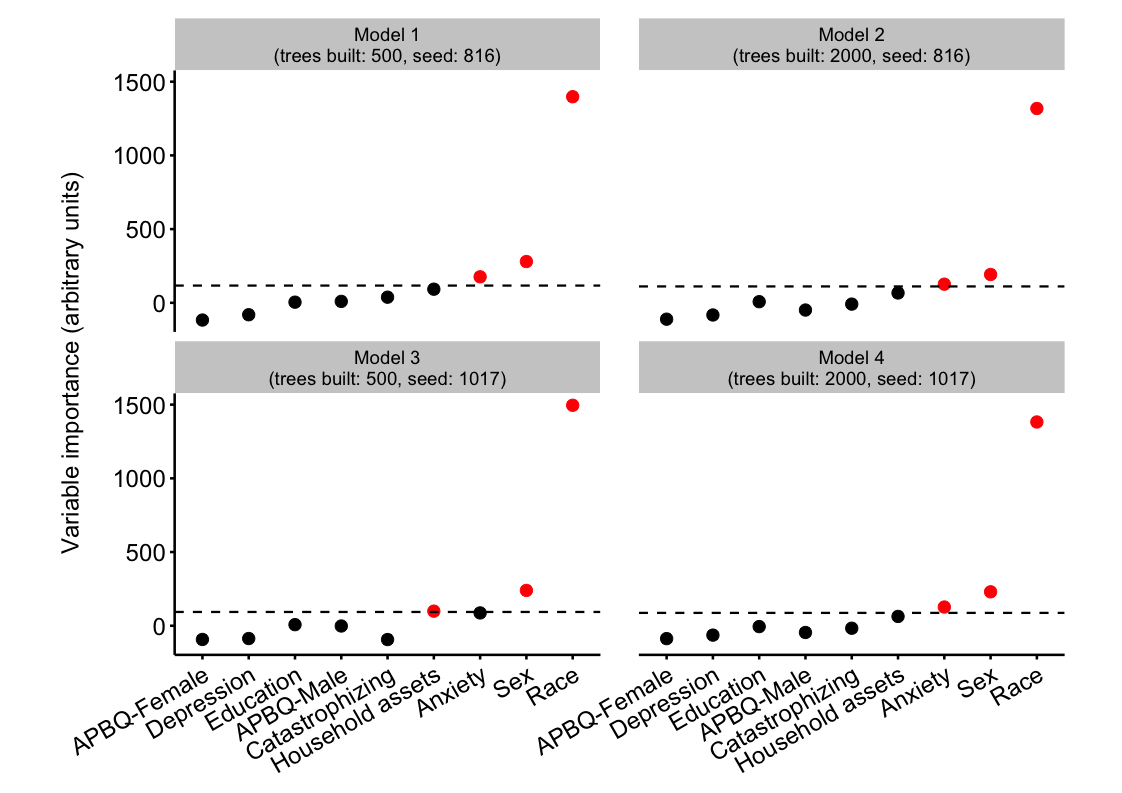
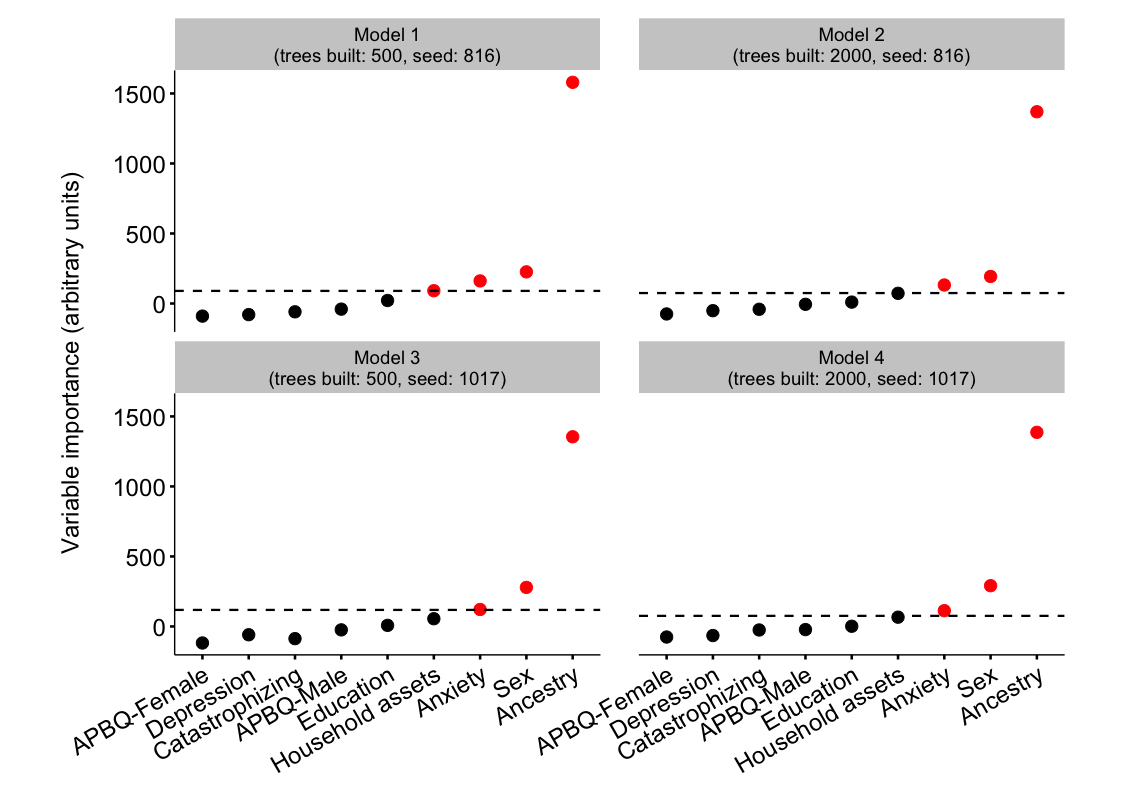
Knitr output after updating column/fig labels

diff --git a/cold-pain-tolerance.md b/cold-pain-tolerance.md
@@ -5,7 +5,7 @@ Random forest analysis: Cold-pain tolerance
 
 **First version: January 28, 2016**
 
-**Latest version: January 29, 2016**
+**Latest version: June 25, 2016**
 
 ------------------------------------------------------------------------
 
@@ -18,12 +18,26 @@ library(ggplot2)
 library(scales)
 library(grid)
 library(cowplot)
+```
+
+    ## Warning: package 'cowplot' was built under R version 3.2.5
+
+``` r
 library(readr)
 library(dplyr)
 library(tidyr)
 library(knitr)
-library(party)
+```
 
+    ## Warning: package 'knitr' was built under R version 3.2.5
+
+``` r
+library(party)
+```
+
+    ## Warning: package 'zoo' was built under R version 3.2.5
+
+``` r
 # Palette
 palette = c('#000000', '#FF0000')
 
@@ -44,7 +58,7 @@ Load data
 ---------
 
 ``` r
-data <- read_csv("./data/cart-25-01-2016.csv")
+data <- read_csv("./data/random-forest.csv")
 ```
 
 Quick look
@@ -60,9 +74,9 @@ dim(data)
 names(data)
 ```
 
-    ##  [1] "ID"         "CPT"        "PPT"        "Race"       "Sex"       
-    ##  [6] "Anxiety"    "Depression" "PCS"        "APBQ-F"     "APBQ-M"    
-    ## [11] "Education"  "Assets"
+    ##  [1] "ID"         "CPT"        "PPT"        "ancestry"   "sex"       
+    ##  [6] "anxiety"    "depression" "PCS"        "APBQ-F"     "APBQ-M"    
+    ## [11] "education"  "assets"
 
 ``` r
 head(data)
@@ -70,15 +84,15 @@ head(data)
 
     ## Source: local data frame [6 x 12]
     ## 
-    ##      ID   CPT   PPT  Race   Sex Anxiety Depression   PCS APBQ-F APBQ-M
-    ##   (int) (int) (int) (chr) (chr)   (dbl)      (dbl) (int)  (dbl)  (dbl)
-    ## 1     1   217   874     W     M     1.5       1.00    11     NA    1.8
-    ## 2     2   300  1154     W     M     2.4       1.53    15     NA    3.0
-    ## 3     4    39   741     B     F     2.3       1.60    21    3.6    3.7
-    ## 4     5    53  1100     B     F     2.3       1.40    23    0.9    1.5
-    ## 5     6   300  1100     B     M     1.3       1.27    13    3.7   -3.1
-    ## 6     7   300  1249     W     M     1.4       1.13     3    5.7    3.4
-    ## Variables not shown: Education (int), Assets (dbl)
+    ##      ID   CPT   PPT ancestry   sex anxiety depression   PCS APBQ-F APBQ-M
+    ##   (int) (int) (int)    (chr) (chr)   (dbl)      (dbl) (int)  (dbl)  (dbl)
+    ## 1     1   217   874      Eur     M     1.5       1.00    11     NA    1.8
+    ## 2     2   300  1154      Eur     M     2.4       1.53    15     NA    3.0
+    ## 3     4    39   741      Afr     F     2.3       1.60    21    3.6    3.7
+    ## 4     5    53  1100      Afr     F     2.3       1.40    23    0.9    1.5
+    ## 5     6   300  1100      Afr     M     1.3       1.27    13    3.7   -3.1
+    ## 6     7   300  1249      Eur     M     1.4       1.13     3    5.7    3.4
+    ## Variables not shown: education (int), assets (dbl)
 
 ``` r
 tail(data)
@@ -86,24 +100,25 @@ tail(data)
 
     ## Source: local data frame [6 x 12]
     ## 
-    ##      ID   CPT   PPT  Race   Sex Anxiety Depression   PCS APBQ-F APBQ-M
-    ##   (int) (int) (int) (chr) (chr)   (dbl)      (dbl) (int)  (dbl)  (dbl)
-    ## 1   254   111   664     W     F     1.6       1.80    12    3.5    3.7
-    ## 2   255    15   524     B     F     2.2       2.13    NA    3.1    4.3
-    ## 3   258   300  1126     B     M     1.2       1.20    NA    0.7   -2.0
-    ## 4   259    70  1117     B     F     1.7       2.00     7    5.7    4.5
-    ## 5   260    53   892     B     F     1.4         NA    37    4.1    4.9
-    ## 6   262    41   471     B     M     1.0       1.27    27    3.8   -3.9
-    ## Variables not shown: Education (int), Assets (dbl)
+    ##      ID   CPT   PPT ancestry   sex anxiety depression   PCS APBQ-F APBQ-M
+    ##   (int) (int) (int)    (chr) (chr)   (dbl)      (dbl) (int)  (dbl)  (dbl)
+    ## 1   254   111   664      Eur     F     1.6       1.80    12    3.5    3.7
+    ## 2   255    15   524      Afr     F     2.2       2.13    NA    3.1    4.3
+    ## 3   258   300  1126      Afr     M     1.2       1.20    NA    0.7   -2.0
+    ## 4   259    70  1117      Afr     F     1.7       2.00     7    5.7    4.5
+    ## 5   260    53   892      Afr     F     1.4         NA    37    4.1    4.9
+    ## 6   262    41   471      Afr     M     1.0       1.27    27    3.8   -3.9
+    ## Variables not shown: education (int), assets (dbl)
 
 Process data
 ------------
 
 ``` r
 # Clean data
-data <- data %>% mutate(Race = factor(Race), Sex = factor(Sex), APBQF = `APBQ-F`, 
-    APBQM = `APBQ-M`, Education = factor(Education, ordered = TRUE)) %>% 
-    select(-c(1, 3, 9:10))
+data <- data %>% mutate(Ancestry = factor(ancestry), Sex = factor(sex), 
+    Anxiety = anxiety, Depression = depression, APBQF = `APBQ-F`, 
+    APBQM = `APBQ-M`, Education = factor(education, ordered = TRUE), 
+    Assets = assets) %>% select(-c(1, 3, 4:7, 9:12))
 # Complete X and Y variable dataset
 data_complete <- data[complete.cases(data), ]
 # Length of full dataset (with NAs)
@@ -119,6 +134,23 @@ nrow(data_complete)
 
     ## [1] 156
 
+``` r
+glimpse(data_complete)
+```
+
+    ## Observations: 156
+    ## Variables: 10
+    ## $ CPT        (int) 39, 53, 300, 300, 300, 300, 18, 42, 300, 130, 44, 3...
+    ## $ PCS        (int) 21, 23, 13, 3, 28, 9, 26, 11, 13, 14, 2, 18, 15, 1,...
+    ## $ Ancestry   (fctr) Afr, Afr, Afr, Eur, Eur, Eur, Eur, Eur, Eur, Eur, ...
+    ## $ Sex        (fctr) F, F, M, M, F, M, M, F, M, M, F, F, F, M, F, F, F,...
+    ## $ Anxiety    (dbl) 2.3, 2.3, 1.3, 1.4, 2.3, 1.3, 1.7, 1.5, 1.2, 1.3, 1...
+    ## $ Depression (dbl) 1.60, 1.40, 1.27, 1.13, 2.60, 1.53, 1.40, 1.27, 1.2...
+    ## $ APBQF      (dbl) 3.6, 0.9, 3.7, 5.7, 6.0, 4.9, 6.0, 3.4, 4.8, 4.7, 0...
+    ## $ APBQM      (dbl) 3.7, 1.5, -3.1, 3.4, 5.2, 3.7, 5.5, 3.0, 2.2, 4.7, ...
+    ## $ Education  (fctr) 3, 3, 3, 3, 3, 3, 2, 3, 3, 3, 3, 3, 2, 3, 3, 3, 3,...
+    ## $ Assets     (dbl) 1.0, 1.0, 0.6, 1.0, 1.0, 1.0, 1.0, 1.0, 1.0, 1.0, 1...
+
 Simple single tree
 ------------------
 
@@ -128,7 +160,9 @@ plot(tree)
 ```
 
 ![](./figures/cold-pain-tolerance/single_tree-1.png)
- \#\# Random Forest
+
+Random Forest
+-------------
 
 ``` r
 # Set random seeds (used sampling on first run only) seed_1 <-
@@ -181,7 +215,7 @@ x_order <- rev(plot_df$Variable[1:9])
 ## Vector to label x variables
 x_labs <- c(APBQF = "APBQ-Female", Depression = "Depression", Education = "Education", 
     APBQM = "APBQ-Male", PCS = "Catastrophizing", Assets = "Household assets", 
-    Anxiety = "Anxiety", Sex = "Sex", Race = "Race")
+    Anxiety = "Anxiety", Sex = "Sex", Ancestry = "Ancestry")
 ## Vector of facet labels
 f_labels <- c(Model_1 = "Model 1\n(trees built: 500, seed: 816)", 
     Model_2 = "Model 2\n(trees built: 2000, seed: 816)", Model_3 = "Model 3\n(trees built: 500, seed: 1017)", 
@@ -201,15 +235,17 @@ ggplot(data = plot_df, aes(x = Variable, y = Value, colour = Important,
 ```
 
 ![](./figures/cold-pain-tolerance/plot-1.png)
- \#\# Session information
+
+Session information
+-------------------
 
 ``` r
 sessionInfo()
 ```
 
-    ## R version 3.2.3 (2015-12-10)
+    ## R version 3.2.4 (2016-03-10)
     ## Platform: x86_64-apple-darwin13.4.0 (64-bit)
-    ## Running under: OS X 10.11.3 (El Capitan)
+    ## Running under: OS X 10.11.5 (El Capitan)
     ## 
     ## locale:
     ## [1] en_GB.UTF-8/en_GB.UTF-8/en_GB.UTF-8/C/en_GB.UTF-8/en_GB.UTF-8
@@ -219,17 +255,18 @@ sessionInfo()
     ## [8] methods   base     
     ## 
     ## other attached packages:
-    ##  [1] gdtools_0.0.6     svglite_1.0.0     party_1.0-25     
-    ##  [4] strucchange_1.5-1 sandwich_2.3-4    zoo_1.7-12       
-    ##  [7] modeltools_0.2-21 mvtnorm_1.0-3     knitr_1.12       
-    ## [10] tidyr_0.4.0       dplyr_0.4.3       readr_0.2.2      
-    ## [13] cowplot_0.6.0     scales_0.3.0      ggplot2_2.0.0    
+    ##  [1] party_1.0-25      strucchange_1.5-1 sandwich_2.3-4   
+    ##  [4] zoo_1.7-13        modeltools_0.2-21 mvtnorm_1.0-5    
+    ##  [7] knitr_1.13        tidyr_0.4.1       dplyr_0.4.3      
+    ## [10] readr_0.2.2       cowplot_0.6.2     scales_0.4.0     
+    ## [13] ggplot2_2.1.0    
     ## 
     ## loaded via a namespace (and not attached):
-    ##  [1] Rcpp_0.12.3      formatR_1.2.1    plyr_1.8.3       tools_3.2.3     
-    ##  [5] digest_0.6.9     evaluate_0.8     gtable_0.1.2     lattice_0.20-33 
-    ##  [9] DBI_0.3.1        yaml_2.1.13      parallel_3.2.3   coin_1.1-2      
-    ## [13] stringr_1.0.0    R6_2.1.1         survival_2.38-3  rmarkdown_0.9.2 
-    ## [17] multcomp_1.4-2   TH.data_1.0-6    magrittr_1.5     codetools_0.2-14
-    ## [21] htmltools_0.3    splines_3.2.3    assertthat_0.1   colorspace_1.2-6
-    ## [25] labeling_0.3     stringi_1.0-1    lazyeval_0.1.10  munsell_0.4.2
+    ##  [1] Rcpp_0.12.4      formatR_1.4      plyr_1.8.3       tools_3.2.4     
+    ##  [5] digest_0.6.9     evaluate_0.9     gtable_0.2.0     lattice_0.20-33 
+    ##  [9] Matrix_1.2-6     DBI_0.4          yaml_2.1.13      parallel_3.2.4  
+    ## [13] coin_1.1-2       stringr_1.0.0    R6_2.1.2         survival_2.39-3 
+    ## [17] rmarkdown_0.9.6  multcomp_1.4-5   TH.data_1.0-7    magrittr_1.5    
+    ## [21] codetools_0.2-14 htmltools_0.3.5  splines_3.2.4    MASS_7.3-45     
+    ## [25] assertthat_0.1   colorspace_1.2-6 labeling_0.3     stringi_1.0-1   
+    ## [29] lazyeval_0.1.10  munsell_0.4.3
